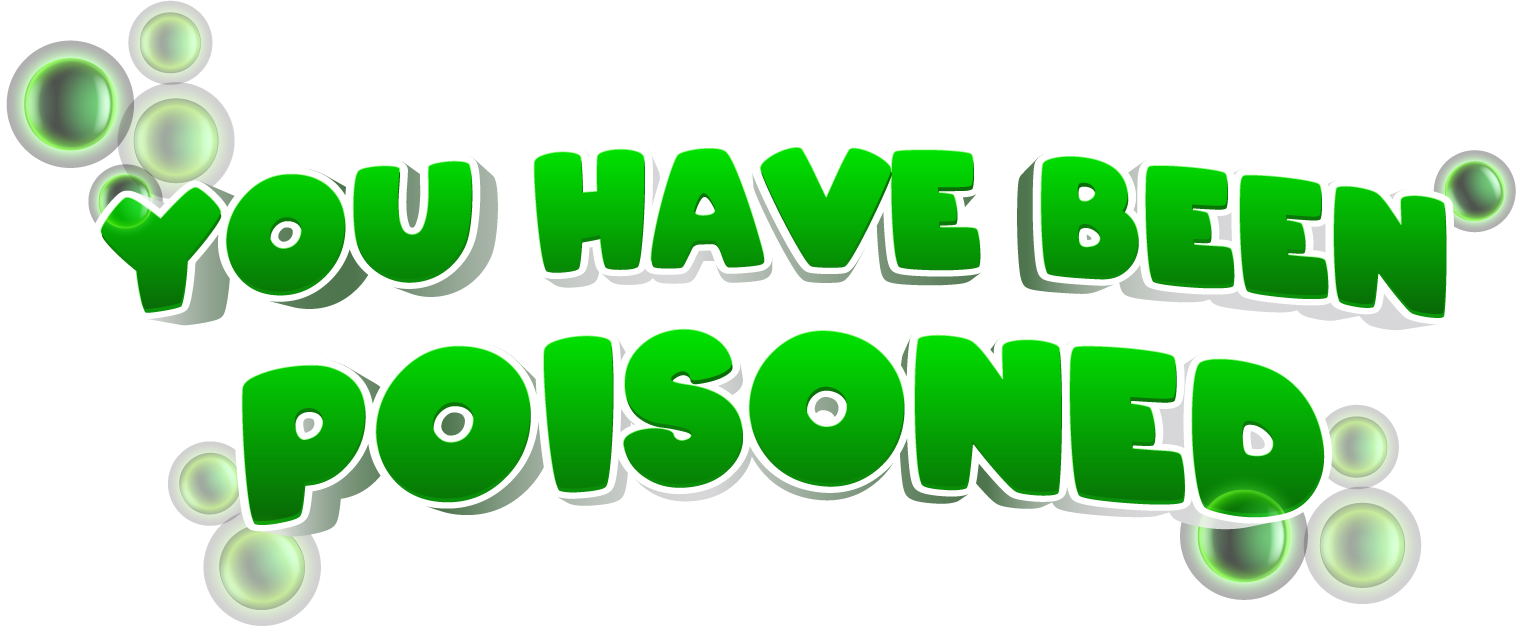
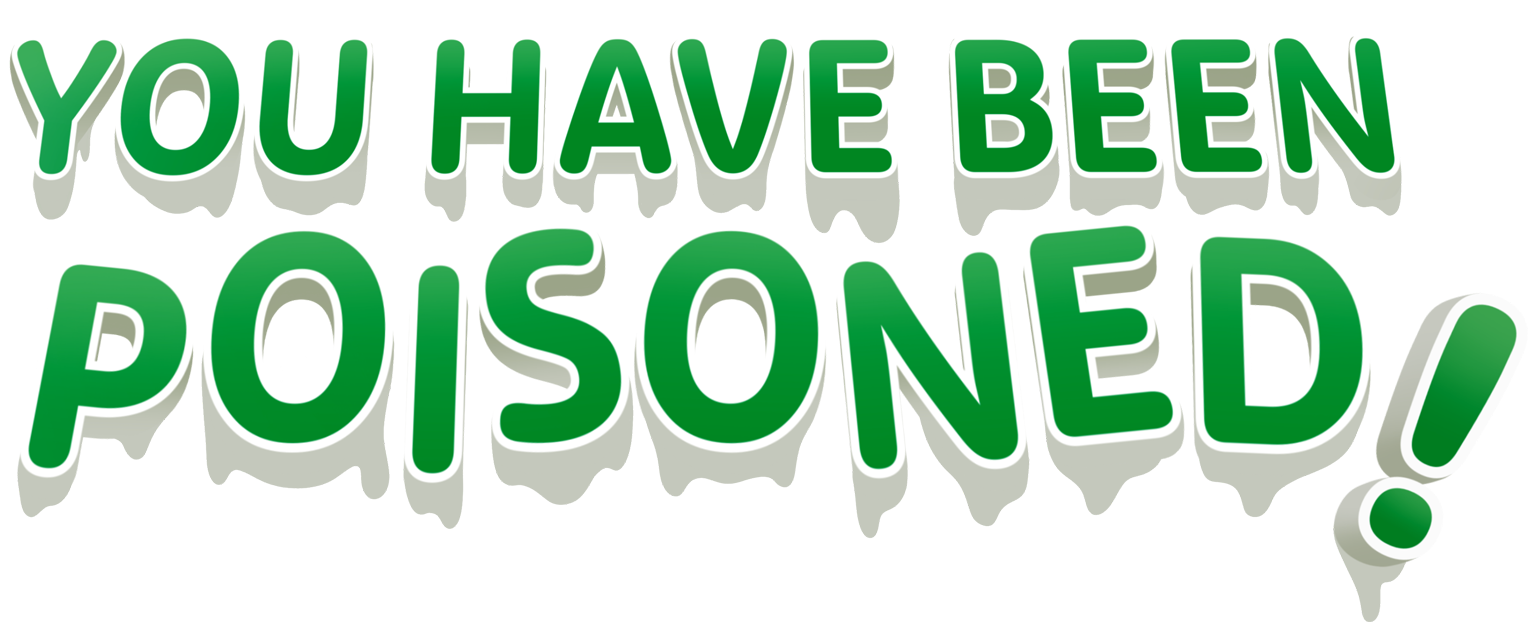
updated ui texts
updated ui texts

diff --git a/Assets/Screenshothelper.cs b/Assets/Screenshothelper.cs
@@ -1,0 +1,63 @@
+using System.Collections;
+using System.Collections.Generic;
+using System.IO;
+#if UNITY_EDITOR
+using UnityEditor;
+#endif
+using UnityEngine;
+
+public class Screenshothelper : MonoBehaviour
+{
+    private static bool _isTakingScreenshot = false;
+
+    private static string SCREENSHOT_NAME = "screenshot.jpg";
+    private IEnumerator TakeScreenshotCo()
+    {
+        yield return new WaitForEndOfFrame();
+
+        int factor = Mathf.CeilToInt(1080f / Screen.height);
+
+        Texture2D tex = ScreenCapture.CaptureScreenshotAsTexture(factor > 0 ? factor : 1);
+
+        yield return new WaitForEndOfFrame();
+
+        _isTakingScreenshot = false;
+
+        var tempnumber = UnityEngine.Random.Range(0, 100);
+        string screenshotPath = Application.persistentDataPath + "/" + tempnumber + SCREENSHOT_NAME;
+        File.WriteAllBytes(screenshotPath, tex.EncodeToJPG());
+        Debug.Log(screenshotPath);
+        //HubEvents.ScreenshotTaken?.Invoke(tex);
+    }
+
+#if UNITY_EDITOR
+    [MenuItem("Screenshot/Take")]
+#endif
+    private static void TakeScreenshotCallbackDef()
+    {
+        var obj =FindObjectOfType<Screenshothelper>();
+        if (obj != null)
+        {
+            obj.TakeScreenshotCallback();
+        }
+    }
+
+    public void TakeScreenshotCallback()
+    {
+        if (_isTakingScreenshot) return;
+
+        _isTakingScreenshot = true;
+        StartCoroutine(TakeScreenshotCo());
+    }
+    private void Update()
+    {
+        if (Input.GetKeyDown(KeyCode.Space))
+        {
+            Debug.Break();
+        }
+    }
+    private void Start()
+    {
+        DontDestroyOnLoad(this.gameObject);
+    }
+}

diff --git a/Assets/Editor/ScreenshotManager.cs b/Assets/Editor/ScreenshotManager.cs
@@ -1,0 +1,16 @@
+using UnityEditor;
+
+public class ScreenshotManager
+{
+    
+    [MenuItem("Screenshot/Take")]
+    private static void TakeScreenshotCallbackDef()
+    {
+        var obj = UnityEngine.GameObject.FindObjectOfType<Screenshothelper>();
+        if (obj != null)
+        {
+            obj.TakeScreenshotCallback();
+        }
+    }
+
+}
